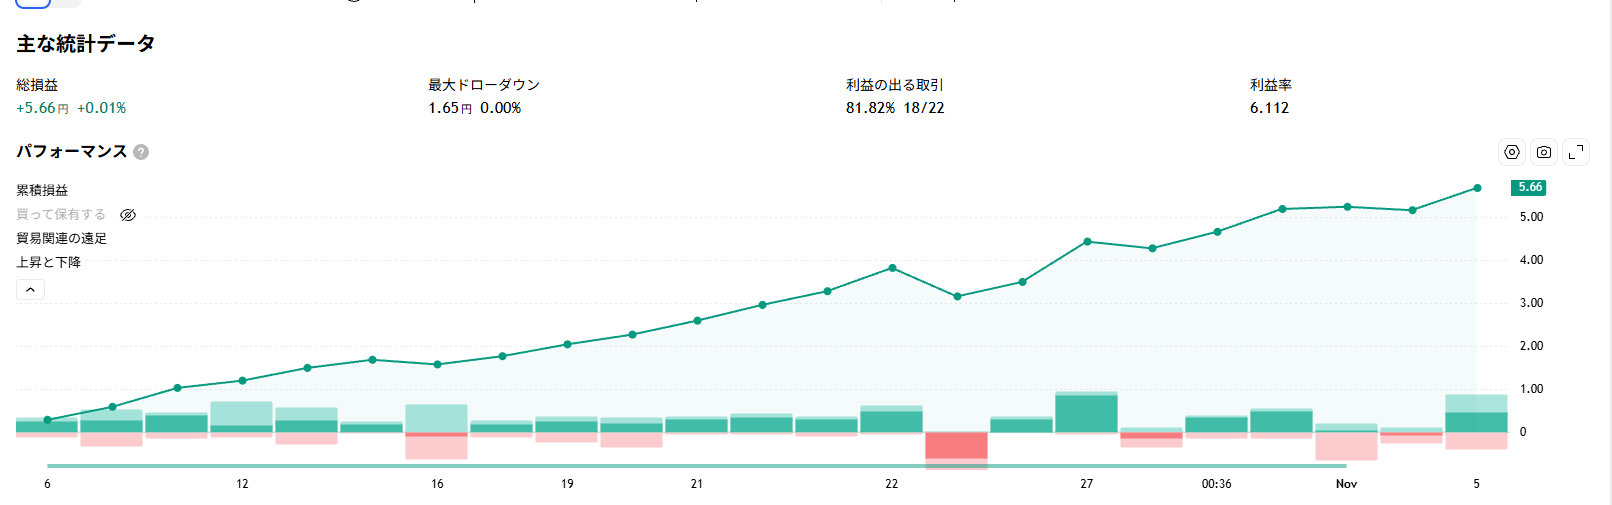
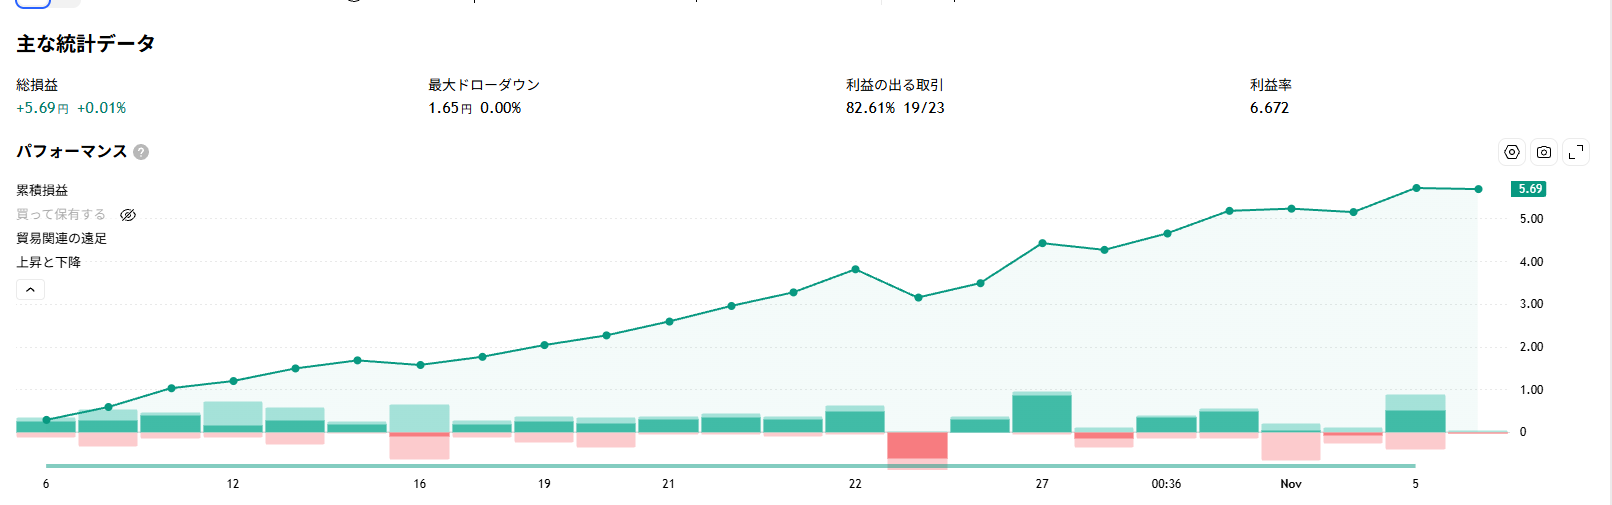
売買記録 2026-11-05（CA_RSI_Bol_1.1_JP）

diff --git a/index.html b/index.html
@@ -47,7 +47,7 @@ ul.days a{display:block;background:var(--card);border:1px solid var(--line);bord
 .eqw .cx{stroke:var(--muted);stroke-width:1;vector-effect:non-scaling-stroke;display:none}
 .eqw .dot{fill:var(--eq);stroke:var(--card);stroke-width:2;vector-effect:non-scaling-stroke;display:none}
 .eqt{position:absolute;top:4px;transform:translateX(-50%);background:var(--card);border:1px solid var(--line);border-radius:6px;padding:4px 8px;font-size:12px;line-height:1.5;white-space:nowrap;pointer-events:none;display:none;box-shadow:0 2px 8px rgba(0,0,0,.14)}
-</style></head><body><header><h1>TradingView 売買記録</h1><div class=sub>通算 ／ CA_RSI_Bol_1.1_JP — USDJPY 3分足</div></header><main><h2>通算成績</h2><p class=note>ChartArt「Bollinger + RSI, Double Strategy」v1.1 の日本語表示版。ロジックは原本と同じで、矢印を「買い／売り」表示にして評価損益を円で出すようにしたもの。アラート2本（1時間足・3分足）が稼働中。いちばん新しい取引（買い・2026-11-03 16:48 建て）は建玉中のままで、評価損益は含み益・含み損で変わります。</p><div class=kpi><div><div class=k>総損益</div><div class=v><span class="up">+6.77</span> 円</div><div class=n>建玉中込み +7.29 円</div></div><div><div class=k>利益率（PF）</div><div class=v>4.640</div><div class=n>建玉中込み 4.919</div></div><div><div class=k>勝率</div><div class=v>82.8%</div><div class=n>24 勝 / 29 取引</div></div><div><div class=k>最大ドローダウン</div><div class=v>1.92 円</div><div class=n>含み損も数えた谷</div></div></div><p class=note>記録を始めてからためた<b>全 30 取引</b>の通算です（2026-09-29 〜 2026-11-03）。TradingView がさかのぼれる範囲から外れた古い取引も台帳に残してあるので消えません。最後に記録したのは <b>2026-11-05</b>（2026-11-05 19:20 JST）。</p><h2>通算の損益カーブ</h2><p>決済が済んだ取引だけを、決済した順に積み上げたものです。線をなぞるとその取引が出ます。</p><div class=eqw id=eqw><svg viewBox="0 0 380 210" role=img aria-label="通算の損益カーブ。2026年09月29日から2026年11月03日まで、決済済み 29 取引の累積損益は +6.77 円。1件ごとの内訳は下のトレード履歴の表で読めます。"><title>通算の損益カーブ</title><line class="zl" x1="44.0" y1="184.0" x2="372.0" y2="184.0"/><text class=ax x="39.0" y="187.5" text-anchor=end>+0</text><line class="gl" x1="44.0" y1="141.0" x2="372.0" y2="141.0"/><text class=ax x="39.0" y="144.5" text-anchor=end>+2</text><line class="gl" x1="44.0" y1="98.0" x2="372.0" y2="98.0"/><text class=ax x="39.0" y="101.5" text-anchor=end>+4</text><line class="gl" x1="44.0" y1="55.0" x2="372.0" y2="55.0"/><text class=ax x="39.0" y="58.5" text-anchor=end>+6</text><line class="gl" x1="44.0" y1="12.0" x2="372.0" y2="12.0"/><text class=ax x="39.0" y="15.5" text-anchor=end>+8</text><text class=ax x="44.0" y="201.0" text-anchor=start>9/29</text><text class=ax x="202.4" y="201.0" text-anchor=middle>10/16</text><text class=ax x="372.0" y="201.0" text-anchor=end>11/3</text><polygon class=ar points="44.0,184.0 44.0,184.0 46.8,176.7 48.1,168.5 52.6,149.0 57.4,138.0 65.5,156.3 100.0,154.1 106.6,149.4 110.0,143.4 126.5,136.9 132.4,127.5 163.9,123.8 182.7,117.4 183.6,113.3 197.6,115.6 202.4,111.5 232.8,105.5 243.9,100.6 248.0,93.7 252.5,85.7 255.0,78.9 258.7,67.3 294.6,81.4 295.3,74.1 304.3,53.9 315.2,57.4 319.0,49.2 330.7,37.8 359.8,36.7 372.0,38.4 372.0,184.0"/><polyline class=ln points="44.0,184.0 46.8,176.7 48.1,168.5 52.6,149.0 57.4,138.0 65.5,156.3 100.0,154.1 106.6,149.4 110.0,143.4 126.5,136.9 132.4,127.5 163.9,123.8 182.7,117.4 183.6,113.3 197.6,115.6 202.4,111.5 232.8,105.5 243.9,100.6 248.0,93.7 252.5,85.7 255.0,78.9 258.7,67.3 294.6,81.4 295.3,74.1 304.3,53.9 315.2,57.4 319.0,49.2 330.7,37.8 359.8,36.7 372.0,38.4"/><text class=dl x="370.0" y="31.4" text-anchor=end>+6.77 円</text><line class=cx id=eqcx y1="12" y2="184" x1="0" x2="0"/><circle class=dot id=eqdot r="5" cx="0" cy="0"/></svg><div class=eqt id=eqt></div><script type="application/json" id=eqd>[{"x": 44.0, "y": 184.0, "t": "2026/09/29 記録開始<br>累積 +0.00 円"}, {"x": 46.8, "y": 176.7, "t": "2026/09/29 21:21 決済<br>売り +0.34 円<br>累積 +0.34 円"}, {"x": 48.1, "y": 168.5, "t": "2026/09/30 00:36 決済<br>買い +0.38 円<br>累積 +0.72 円"}, {"x": 52.6, "y": 149.0, "t": "2026/09/30 12:15 決済<br>売り +0.91 円<br>累積 +1.63 円"}, {"x": 57.4, "y": 138.0, "t": "2026/10/01 00:30 決済<br>買い +0.51 円<br>累積 +2.14 円"}, {"x": 65.5, "y": 156.3, "t": "2026/10/01 21:24 決済<br>売り -0.85 円<br>累積 +1.29 円"}, {"x": 100.0, "y": 154.1, "t": "2026/10/05 13:54 決済<br>買い +0.10 円<br>累積 +1.39 円"}, {"x": 106.6, "y": 149.4, "t": "2026/10/06 06:57 決済<br>売り +0.22 円<br>累積 +1.61 円"}, {"x": 110.0, "y": 143.4, "t": "2026/10/06 15:45 決済<br>買い +0.28 円<br>累積 +1.89 円"}, {"x": 126.5, "y": 136.9, "t": "2026/10/08 10:06 決済<br>売り +0.30 円<br>累積 +2.19 円"}, {"x": 132.4, "y": 127.5, "t": "2026/10/09 01:09 決済<br>買い +0.44 円<br>累積 +2.63 円"}, {"x": 163.9, "y": 123.8, "t": "2026/10/12 10:18 決済<br>売り +0.17 円<br>累積 +2.80 円"}, {"x": 182.7, "y": 117.4, "t": "2026/10/14 10:36 決済<br>買い +0.30 円<br>累積 +3.10 円"}, {"x": 183.6, "y": 113.3, "t": "2026/10/14 12:45 決済<br>売り +0.19 円<br>累積 +3.29 円"}, {"x": 197.6, "y": 115.6, "t": "2026/10/16 00:42 決済<br>買い -0.11 円<br>累積 +3.18 円"}, {"x": 202.4, "y": 111.5, "t": "2026/10/16 13:09 決済<br>売り +0.19 円<br>累積 +3.37 円"}, {"x": 232.8, "y": 105.5, "t": "2026/10/19 19:18 決済<br>買い +0.28 円<br>累積 +3.65 円"}, {"x": 243.9, "y": 100.6, "t": "2026/10/20 23:48 決済<br>売り +0.23 円<br>累積 +3.88 円"}, {"x": 248.0, "y": 93.7, "t": "2026/10/21 10:09 決済<br>買い +0.32 円<br>累積 +4.20 円"}, {"x": 252.5, "y": 85.7, "t": "2026/10/21 21:48 決済<br>売り +0.37 円<br>累積 +4.57 円"}, {"x": 255.0, "y": 78.9, "t": "2026/10/22 04:18 決済<br>買い +0.32 円<br>累積 +4.89 円"}, {"x": 258.7, "y": 67.3, "t": "2026/10/22 13:45 決済<br>売り +0.54 円<br>累積 +5.43 円"}, {"x": 294.6, "y": 81.4, "t": "2026/10/26 10:03 決済<br>買い -0.66 円<br>累積 +4.77 円"}, {"x": 295.3, "y": 74.1, "t": "2026/10/26 11:48 決済<br>売り +0.34 円<br>累積 +5.11 円"}, {"x": 304.3, "y": 53.9, "t": "2026/10/27 11:00 決済<br>買い +0.94 円<br>累積 +6.05 円"}, {"x": 315.2, "y": 57.4, "t": "2026/10/28 14:54 決済<br>売り -0.16 円<br>累積 +5.89 円"}, {"x": 319.0, "y": 49.2, "t": "2026/10/29 00:36 決済<br>買い +0.38 円<br>累積 +6.27 円"}, {"x": 330.7, "y": 37.8, "t": "2026/10/30 06:39 決済<br>売り +0.53 円<br>累積 +6.80 円"}, {"x": 359.8, "y": 36.7, "t": "2026/11/02 09:33 決済<br>買い +0.05 円<br>累積 +6.85 円"}, {"x": 372.0, "y": 38.4, "t": "2026/11/03 16:48 決済<br>売り -0.08 円<br>累積 +6.77 円"}]</script></div><h2>トレード履歴（通算）</h2><p>全 30 件（新しい順）</p><p class=cap>日時は上がエントリー・下が決済。小さい字は価格です。</p><div class=sc><table><thead><tr><th>#</th><th>方向</th><th>日時</th><th>損益<br>(円)</th><th>累積<br>(円)</th></tr></thead><tbody><tr class=op><td class=num>30</td><td><span class="tag b">買</span></td><td>11/03 16:48<br>↓ <b>建玉中</b><div class=px>157.799 → （未決済）</div></td><td class=num><span class="up">+0.52</span></td><td class=num>+7.29</td></tr><tr><td class=num>29</td><td><span class="tag s">売</span></td><td>11/02 09:33<br>↓ 11/03 16:48<div class=px>157.719 → 157.799</div></td><td class=num><span class="dn">-0.08</span></td><td class=num>+6.77</td></tr><tr><td class=num>28</td><td><span class="tag b">買</span></td><td>10/30 06:39<br>↓ 11/02 09:33<div class=px>157.668 → 157.719</div></td><td class=num><span class="up">+0.05</span></td><td class=num>+6.85</td></tr><tr><td class=num>27</td><td><span class="tag s">売</span></td><td>10/29 00:36<br>↓ 10/30 06:39<div class=px>158.199 → 157.668</div></td><td class=num><span class="up">+0.53</span></td><td class=num>+6.80</td></tr><tr><td class=num>26</td><td><span class="tag b">買</span></td><td>10/28 14:54<br>↓ 10/29 00:36<div class=px>157.816 → 158.199</div></td><td class=num><span class="up">+0.38</span></td><td class=num>+6.27</td></tr><tr><td class=num>25</td><td><span class="tag s">売</span></td><td>10/27 11:00<br>↓ 10/28 14:54<div class=px>157.659 → 157.816</div></td><td class=num><span class="dn">-0.16</span></td><td class=num>+5.89</td></tr><tr><td class=num>24</td><td><span class="tag b">買</span></td><td>10/26 11:48<br>↓ 10/27 11:00<div class=px>156.721 → 157.659</div></td><td class=num><span class="up">+0.94</span></td><td class=num>+6.05</td></tr><tr><td class=num>23</td><td><span class="tag s">売</span></td><td>10/26 10:03<br>↓ 10/26 11:48<div class=px>157.057 → 156.721</div></td><td class=num><span class="up">+0.34</span></td><td class=num>+5.11</td></tr><tr><td class=num>22</td><td><span class="tag b">買</span></td><td>10/22 13:45<br>↓ 10/26 10:03<div class=px>157.719 → 157.057</div></td><td class=num><span class="dn">-0.66</span></td><td class=num>+4.77</td></tr><tr><td class=num>21</td><td><span class="tag s">売</span></td><td>10/22 04:18<br>↓ 10/22 13:45<div class=px>158.26 → 157.719</div></td><td class=num><span class="up">+0.54</span></td><td class=num>+5.43</td></tr><tr><td class=num>20</td><td><span class="tag b">買</span></td><td>10/21 21:48<br>↓ 10/22 04:18<div class=px>157.942 → 158.26</div></td><td class=num><span class="up">+0.32</span></td><td class=num>+4.89</td></tr><tr><td class=num>19</td><td><span class="tag s">売</span></td><td>10/21 10:09<br>↓ 10/21 21:48<div class=px>158.307 → 157.942</div></td><td class=num><span class="up">+0.37</span></td><td class=num>+4.57</td></tr><tr><td class=num>18</td><td><span class="tag b">買</span></td><td>10/20 23:48<br>↓ 10/21 10:09<div class=px>157.983 → 158.307</div></td><td class=num><span class="up">+0.32</span></td><td class=num>+4.20</td></tr><tr><td class=num>17</td><td><span class="tag s">売</span></td><td>10/19 19:18<br>↓ 10/20 23:48<div class=px>158.21 → 157.983</div></td><td class=num><span class="up">+0.23</span></td><td class=num>+3.88</td></tr><tr><td class=num>16</td><td><span class="tag b">買</span></td><td>10/16 13:09<br>↓ 10/19 19:18<div class=px>157.935 → 158.21</div></td><td class=num><span class="up">+0.28</span></td><td class=num>+3.65</td></tr><tr><td class=num>15</td><td><span class="tag s">売</span></td><td>10/16 00:42<br>↓ 10/16 13:09<div class=px>158.126 → 157.935</div></td><td class=num><span class="up">+0.19</span></td><td class=num>+3.37</td></tr><tr><td class=num>14</td><td><span class="tag b">買</span></td><td>10/14 12:45<br>↓ 10/16 00:42<div class=px>158.234 → 158.126</div></td><td class=num><span class="dn">-0.11</span></td><td class=num>+3.18</td></tr><tr><td class=num>13</td><td><span class="tag s">売</span></td><td>10/14 10:36<br>↓ 10/14 12:45<div class=px>158.423 → 158.234</div></td><td class=num><span class="up">+0.19</span></td><td class=num>+3.29</td></tr><tr><td class=num>12</td><td><span class="tag b">買</span></td><td>10/12 10:18<br>↓ 10/14 10:36<div class=px>158.128 → 158.423</div></td><td class=num><span class="up">+0.30</span></td><td class=num>+3.10</td></tr><tr><td class=num>11</td><td><span class="tag s">売</span></td><td>10/09 01:09<br>↓ 10/12 10:18<div class=px>158.297 → 158.128</div></td><td class=num><span class="up">+0.17</span></td><td class=num>+2.80</td></tr><tr><td class=num>10</td><td><span class="tag b">買</span></td><td>10/08 10:06<br>↓ 10/09 01:09<div class=px>157.858 → 158.297</div></td><td class=num><span class="up">+0.44</span></td><td class=num>+2.63</td></tr><tr><td class=num>9</td><td><span class="tag s">売</span></td><td>10/06 15:45<br>↓ 10/08 10:06<div class=px>158.16 → 157.858</div></td><td class=num><span class="up">+0.30</span></td><td class=num>+2.19</td></tr><tr><td class=num>8</td><td><span class="tag b">買</span></td><td>10/06 06:57<br>↓ 10/06 15:45<div class=px>157.879 → 158.16</div></td><td class=num><span class="up">+0.28</span></td><td class=num>+1.89</td></tr><tr><td class=num>7</td><td><span class="tag s">売</span></td><td>10/05 13:54<br>↓ 10/06 06:57<div class=px>158.103 → 157.879</div></td><td class=num><span class="up">+0.22</span></td><td class=num>+1.61</td></tr><tr><td class=num>6</td><td><span class="tag b">買</span></td><td>10/01 21:24<br>↓ 10/05 13:54<div class=px>158.003 → 158.103</div></td><td class=num><span class="up">+0.10</span></td><td class=num>+1.39</td></tr><tr><td class=num>5</td><td><span class="tag s">売</span></td><td>10/01 00:30<br>↓ 10/01 21:24<div class=px>157.151 → 158.003</div></td><td class=num><span class="dn">-0.85</span></td><td class=num>+1.29</td></tr><tr><td class=num>4</td><td><span class="tag b">買</span></td><td>09/30 12:15<br>↓ 10/01 00:30<div class=px>156.644 → 157.151</div></td><td class=num><span class="up">+0.51</span></td><td class=num>+2.14</td></tr><tr><td class=num>3</td><td><span class="tag s">売</span></td><td>09/30 00:36<br>↓ 09/30 12:15<div class=px>157.553 → 156.644</div></td><td class=num><span class="up">+0.91</span></td><td class=num>+1.63</td></tr><tr><td class=num>2</td><td><span class="tag b">買</span></td><td>09/29 21:21<br>↓ 09/30 00:36<div class=px>157.169 → 157.553</div></td><td class=num><span class="up">+0.38</span></td><td class=num>+0.72</td></tr><tr><td class=num>1</td><td><span class="tag s">売</span></td><td>09/29 14:09<br>↓ 09/29 21:21<div class=px>157.509 → 157.169</div></td><td class=num><span class="up">+0.34</span></td><td class=num>+0.34</td></tr></tbody></table></div><h2>この日の TradingView 画面</h2><p class=note><b>取得日時 2026-11-05 19:20 JST</b><br>TradingView がこの日さかのぼれた範囲は <b>2026-10-06 〜 2026-11-03</b>（23 取引）。その範囲だけで集計すると 総損益 +5.15 円 ／ 利益率 6.109。<br>上の通算と数字が違うのは、通算には窓から外れた古い取引も入っているからです。</p><h3>戦略レポート（主な統計データと累積損益カーブ）</h3><a href='2026-11-05/report.png' target=_blank rel=noopener><img src='2026-11-05/report.png' alt='戦略レポート（主な統計データと累積損益カーブ）'></a><p class=cap>画像をタップすると原寸で開きます</p><h2>日付ごとの記録</h2><ul class=days><li><a href='2026-11-05/'>2026-11-05　← いちばん新しい記録</a></li><li><a href='2026-11-04/'>2026-11-04</a></li><li><a href='2026-11-03/'>2026-11-03</a></li><li><a href='2026-11-02/'>2026-11-02</a></li><li><a href='2026-11-01/'>2026-11-01</a></li><li><a href='2026-10-31/'>2026-10-31</a></li></ul><details open><summary>⚠ 数字を読むときの注意</summary><ul><li><b>通算は「記録したときに TradingView に見えていた取引」を足したもの</b>です。記録を始める前の取引や、記録の間隔が開いて窓から外れてしまった取引は入りません</li><li>通算の総損益は<b>1取引ごとの損益を足し上げた値</b>です。TradingView の「累積損益」の列は行ごとに丸めてあるので、そちらとわずかに違います（いちばん新しい記録の範囲で 足し上げ +5.16 円 / TV の列 +5.15 円）</li><li><b>TradingView の画面に出る「利益率」は建玉中の評価損益を含みません</b>。いま建玉中が +0.52 円あり、含めると利益率は 4.640 → 4.919 になります</li><li>表の損益はスプレッドや実際の約定ズレを含みません。実口座の成績とは一致しません</li><li>最大ドローダウンは、決済ごとの累積損益に加えて保有中の含み損も谷として数えています。TradingView の表示と計算の土俵が違うことがあります</li><li>この戦略は5分足6年の独立検証では利益率 0.924（ランダムに入った場合より悪い）でした。ここに出ている短期の高い利益率は、期間の取り方で出ることがあります</li><li>3分足は長期の裏取りができません（手持ちの検証データは最短5分足）</li></ul></details><p class=foot>TradingView の戦略テスターから自動で作っています。取引一覧の原本（CSV）と通算台帳は非公開の保管用リポジトリにあります。</p></main><script>
+</style></head><body><header><h1>TradingView 売買記録</h1><div class=sub>通算 ／ CA_RSI_Bol_1.1_JP — USDJPY 3分足</div></header><main><h2>通算成績</h2><p class=note>ChartArt「Bollinger + RSI, Double Strategy」v1.1 の日本語表示版。ロジックは原本と同じで、矢印を「買い／売り」表示にして評価損益を円で出すようにしたもの。アラート2本（1時間足・3分足）が稼働中。前回（19:20）建玉中だった買いの取引は 2026-11-05 19:51 に +0.56 円で決済され、同時刻に新しい売りの取引を建てました。いちばん新しい取引（売り・2026-11-05 19:51 建て）は建玉中のままで、評価損益は含み益・含み損で変わります。</p><div class=kpi><div><div class=k>総損益</div><div class=v><span class="up">+7.33</span> 円</div><div class=n>建玉中込み +7.30 円</div></div><div><div class=k>利益率（PF）</div><div class=v>4.941</div><div class=n>建玉中込み 4.862</div></div><div><div class=k>勝率</div><div class=v>83.3%</div><div class=n>25 勝 / 30 取引</div></div><div><div class=k>最大ドローダウン</div><div class=v>1.92 円</div><div class=n>含み損も数えた谷</div></div></div><p class=note>記録を始めてからためた<b>全 31 取引</b>の通算です（2026-09-29 〜 2026-11-05）。TradingView がさかのぼれる範囲から外れた古い取引も台帳に残してあるので消えません。最後に記録したのは <b>2026-11-05</b>（2026-11-05 20:46 JST）。</p><h2>通算の損益カーブ</h2><p>決済が済んだ取引だけを、決済した順に積み上げたものです。線をなぞるとその取引が出ます。</p><div class=eqw id=eqw><svg viewBox="0 0 380 210" role=img aria-label="通算の損益カーブ。2026年09月29日から2026年11月05日まで、決済済み 30 取引の累積損益は +7.33 円。1件ごとの内訳は下のトレード履歴の表で読めます。"><title>通算の損益カーブ</title><line class="zl" x1="44.0" y1="184.0" x2="372.0" y2="184.0"/><text class=ax x="39.0" y="187.5" text-anchor=end>+0</text><line class="gl" x1="44.0" y1="141.0" x2="372.0" y2="141.0"/><text class=ax x="39.0" y="144.5" text-anchor=end>+2</text><line class="gl" x1="44.0" y1="98.0" x2="372.0" y2="98.0"/><text class=ax x="39.0" y="101.5" text-anchor=end>+4</text><line class="gl" x1="44.0" y1="55.0" x2="372.0" y2="55.0"/><text class=ax x="39.0" y="58.5" text-anchor=end>+6</text><line class="gl" x1="44.0" y1="12.0" x2="372.0" y2="12.0"/><text class=ax x="39.0" y="15.5" text-anchor=end>+8</text><text class=ax x="44.0" y="201.0" text-anchor=start>9/29</text><text class=ax x="193.4" y="201.0" text-anchor=middle>10/16</text><text class=ax x="372.0" y="201.0" text-anchor=end>11/5</text><polygon class=ar points="44.0,184.0 44.0,184.0 46.6,176.7 47.8,168.5 52.1,149.0 56.6,138.0 64.3,156.3 96.8,154.1 103.0,149.4 106.2,143.4 121.8,136.9 127.3,127.5 157.1,123.8 174.8,117.4 175.6,113.3 188.8,115.6 193.4,111.5 222.1,105.5 232.5,100.6 236.3,93.7 240.6,85.7 243.0,78.9 246.4,67.3 280.3,81.4 281.0,74.1 289.5,53.9 299.7,57.4 303.3,49.2 314.3,37.8 341.8,36.7 353.3,38.4 372.0,26.4 372.0,184.0"/><polyline class=ln points="44.0,184.0 46.6,176.7 47.8,168.5 52.1,149.0 56.6,138.0 64.3,156.3 96.8,154.1 103.0,149.4 106.2,143.4 121.8,136.9 127.3,127.5 157.1,123.8 174.8,117.4 175.6,113.3 188.8,115.6 193.4,111.5 222.1,105.5 232.5,100.6 236.3,93.7 240.6,85.7 243.0,78.9 246.4,67.3 280.3,81.4 281.0,74.1 289.5,53.9 299.7,57.4 303.3,49.2 314.3,37.8 341.8,36.7 353.3,38.4 372.0,26.4"/><text class=dl x="370.0" y="19.4" text-anchor=end>+7.33 円</text><line class=cx id=eqcx y1="12" y2="184" x1="0" x2="0"/><circle class=dot id=eqdot r="5" cx="0" cy="0"/></svg><div class=eqt id=eqt></div><script type="application/json" id=eqd>[{"x": 44.0, "y": 184.0, "t": "2026/09/29 記録開始<br>累積 +0.00 円"}, {"x": 46.6, "y": 176.7, "t": "2026/09/29 21:21 決済<br>売り +0.34 円<br>累積 +0.34 円"}, {"x": 47.8, "y": 168.5, "t": "2026/09/30 00:36 決済<br>買い +0.38 円<br>累積 +0.72 円"}, {"x": 52.1, "y": 149.0, "t": "2026/09/30 12:15 決済<br>売り +0.91 円<br>累積 +1.63 円"}, {"x": 56.6, "y": 138.0, "t": "2026/10/01 00:30 決済<br>買い +0.51 円<br>累積 +2.14 円"}, {"x": 64.3, "y": 156.3, "t": "2026/10/01 21:24 決済<br>売り -0.85 円<br>累積 +1.29 円"}, {"x": 96.8, "y": 154.1, "t": "2026/10/05 13:54 決済<br>買い +0.10 円<br>累積 +1.39 円"}, {"x": 103.0, "y": 149.4, "t": "2026/10/06 06:57 決済<br>売り +0.22 円<br>累積 +1.61 円"}, {"x": 106.2, "y": 143.4, "t": "2026/10/06 15:45 決済<br>買い +0.28 円<br>累積 +1.89 円"}, {"x": 121.8, "y": 136.9, "t": "2026/10/08 10:06 決済<br>売り +0.30 円<br>累積 +2.19 円"}, {"x": 127.3, "y": 127.5, "t": "2026/10/09 01:09 決済<br>買い +0.44 円<br>累積 +2.63 円"}, {"x": 157.1, "y": 123.8, "t": "2026/10/12 10:18 決済<br>売り +0.17 円<br>累積 +2.80 円"}, {"x": 174.8, "y": 117.4, "t": "2026/10/14 10:36 決済<br>買い +0.30 円<br>累積 +3.10 円"}, {"x": 175.6, "y": 113.3, "t": "2026/10/14 12:45 決済<br>売り +0.19 円<br>累積 +3.29 円"}, {"x": 188.8, "y": 115.6, "t": "2026/10/16 00:42 決済<br>買い -0.11 円<br>累積 +3.18 円"}, {"x": 193.4, "y": 111.5, "t": "2026/10/16 13:09 決済<br>売り +0.19 円<br>累積 +3.37 円"}, {"x": 222.1, "y": 105.5, "t": "2026/10/19 19:18 決済<br>買い +0.28 円<br>累積 +3.65 円"}, {"x": 232.5, "y": 100.6, "t": "2026/10/20 23:48 決済<br>売り +0.23 円<br>累積 +3.88 円"}, {"x": 236.3, "y": 93.7, "t": "2026/10/21 10:09 決済<br>買い +0.32 円<br>累積 +4.20 円"}, {"x": 240.6, "y": 85.7, "t": "2026/10/21 21:48 決済<br>売り +0.37 円<br>累積 +4.57 円"}, {"x": 243.0, "y": 78.9, "t": "2026/10/22 04:18 決済<br>買い +0.32 円<br>累積 +4.89 円"}, {"x": 246.4, "y": 67.3, "t": "2026/10/22 13:45 決済<br>売り +0.54 円<br>累積 +5.43 円"}, {"x": 280.3, "y": 81.4, "t": "2026/10/26 10:03 決済<br>買い -0.66 円<br>累積 +4.77 円"}, {"x": 281.0, "y": 74.1, "t": "2026/10/26 11:48 決済<br>売り +0.34 円<br>累積 +5.11 円"}, {"x": 289.5, "y": 53.9, "t": "2026/10/27 11:00 決済<br>買い +0.94 円<br>累積 +6.05 円"}, {"x": 299.7, "y": 57.4, "t": "2026/10/28 14:54 決済<br>売り -0.16 円<br>累積 +5.89 円"}, {"x": 303.3, "y": 49.2, "t": "2026/10/29 00:36 決済<br>買い +0.38 円<br>累積 +6.27 円"}, {"x": 314.3, "y": 37.8, "t": "2026/10/30 06:39 決済<br>売り +0.53 円<br>累積 +6.80 円"}, {"x": 341.8, "y": 36.7, "t": "2026/11/02 09:33 決済<br>買い +0.05 円<br>累積 +6.85 円"}, {"x": 353.3, "y": 38.4, "t": "2026/11/03 16:48 決済<br>売り -0.08 円<br>累積 +6.77 円"}, {"x": 372.0, "y": 26.4, "t": "2026/11/05 19:51 決済<br>買い +0.56 円<br>累積 +7.33 円"}]</script></div><h2>トレード履歴（通算）</h2><p>全 31 件（新しい順）</p><p class=cap>日時は上がエントリー・下が決済。小さい字は価格です。</p><div class=sc><table><thead><tr><th>#</th><th>方向</th><th>日時</th><th>損益<br>(円)</th><th>累積<br>(円)</th></tr></thead><tbody><tr class=op><td class=num>31</td><td><span class="tag s">売</span></td><td>11/05 19:51<br>↓ <b>建玉中</b><div class=px>158.363 → （未決済）</div></td><td class=num><span class="dn">-0.03</span></td><td class=num>+7.30</td></tr><tr><td class=num>30</td><td><span class="tag b">買</span></td><td>11/03 16:48<br>↓ 11/05 19:51<div class=px>157.799 → 158.363</div></td><td class=num><span class="up">+0.56</span></td><td class=num>+7.33</td></tr><tr><td class=num>29</td><td><span class="tag s">売</span></td><td>11/02 09:33<br>↓ 11/03 16:48<div class=px>157.719 → 157.799</div></td><td class=num><span class="dn">-0.08</span></td><td class=num>+6.77</td></tr><tr><td class=num>28</td><td><span class="tag b">買</span></td><td>10/30 06:39<br>↓ 11/02 09:33<div class=px>157.668 → 157.719</div></td><td class=num><span class="up">+0.05</span></td><td class=num>+6.85</td></tr><tr><td class=num>27</td><td><span class="tag s">売</span></td><td>10/29 00:36<br>↓ 10/30 06:39<div class=px>158.199 → 157.668</div></td><td class=num><span class="up">+0.53</span></td><td class=num>+6.80</td></tr><tr><td class=num>26</td><td><span class="tag b">買</span></td><td>10/28 14:54<br>↓ 10/29 00:36<div class=px>157.816 → 158.199</div></td><td class=num><span class="up">+0.38</span></td><td class=num>+6.27</td></tr><tr><td class=num>25</td><td><span class="tag s">売</span></td><td>10/27 11:00<br>↓ 10/28 14:54<div class=px>157.659 → 157.816</div></td><td class=num><span class="dn">-0.16</span></td><td class=num>+5.89</td></tr><tr><td class=num>24</td><td><span class="tag b">買</span></td><td>10/26 11:48<br>↓ 10/27 11:00<div class=px>156.721 → 157.659</div></td><td class=num><span class="up">+0.94</span></td><td class=num>+6.05</td></tr><tr><td class=num>23</td><td><span class="tag s">売</span></td><td>10/26 10:03<br>↓ 10/26 11:48<div class=px>157.057 → 156.721</div></td><td class=num><span class="up">+0.34</span></td><td class=num>+5.11</td></tr><tr><td class=num>22</td><td><span class="tag b">買</span></td><td>10/22 13:45<br>↓ 10/26 10:03<div class=px>157.719 → 157.057</div></td><td class=num><span class="dn">-0.66</span></td><td class=num>+4.77</td></tr><tr><td class=num>21</td><td><span class="tag s">売</span></td><td>10/22 04:18<br>↓ 10/22 13:45<div class=px>158.26 → 157.719</div></td><td class=num><span class="up">+0.54</span></td><td class=num>+5.43</td></tr><tr><td class=num>20</td><td><span class="tag b">買</span></td><td>10/21 21:48<br>↓ 10/22 04:18<div class=px>157.942 → 158.26</div></td><td class=num><span class="up">+0.32</span></td><td class=num>+4.89</td></tr><tr><td class=num>19</td><td><span class="tag s">売</span></td><td>10/21 10:09<br>↓ 10/21 21:48<div class=px>158.307 → 157.942</div></td><td class=num><span class="up">+0.37</span></td><td class=num>+4.57</td></tr><tr><td class=num>18</td><td><span class="tag b">買</span></td><td>10/20 23:48<br>↓ 10/21 10:09<div class=px>157.983 → 158.307</div></td><td class=num><span class="up">+0.32</span></td><td class=num>+4.20</td></tr><tr><td class=num>17</td><td><span class="tag s">売</span></td><td>10/19 19:18<br>↓ 10/20 23:48<div class=px>158.21 → 157.983</div></td><td class=num><span class="up">+0.23</span></td><td class=num>+3.88</td></tr><tr><td class=num>16</td><td><span class="tag b">買</span></td><td>10/16 13:09<br>↓ 10/19 19:18<div class=px>157.935 → 158.21</div></td><td class=num><span class="up">+0.28</span></td><td class=num>+3.65</td></tr><tr><td class=num>15</td><td><span class="tag s">売</span></td><td>10/16 00:42<br>↓ 10/16 13:09<div class=px>158.126 → 157.935</div></td><td class=num><span class="up">+0.19</span></td><td class=num>+3.37</td></tr><tr><td class=num>14</td><td><span class="tag b">買</span></td><td>10/14 12:45<br>↓ 10/16 00:42<div class=px>158.234 → 158.126</div></td><td class=num><span class="dn">-0.11</span></td><td class=num>+3.18</td></tr><tr><td class=num>13</td><td><span class="tag s">売</span></td><td>10/14 10:36<br>↓ 10/14 12:45<div class=px>158.423 → 158.234</div></td><td class=num><span class="up">+0.19</span></td><td class=num>+3.29</td></tr><tr><td class=num>12</td><td><span class="tag b">買</span></td><td>10/12 10:18<br>↓ 10/14 10:36<div class=px>158.128 → 158.423</div></td><td class=num><span class="up">+0.30</span></td><td class=num>+3.10</td></tr><tr><td class=num>11</td><td><span class="tag s">売</span></td><td>10/09 01:09<br>↓ 10/12 10:18<div class=px>158.297 → 158.128</div></td><td class=num><span class="up">+0.17</span></td><td class=num>+2.80</td></tr><tr><td class=num>10</td><td><span class="tag b">買</span></td><td>10/08 10:06<br>↓ 10/09 01:09<div class=px>157.858 → 158.297</div></td><td class=num><span class="up">+0.44</span></td><td class=num>+2.63</td></tr><tr><td class=num>9</td><td><span class="tag s">売</span></td><td>10/06 15:45<br>↓ 10/08 10:06<div class=px>158.16 → 157.858</div></td><td class=num><span class="up">+0.30</span></td><td class=num>+2.19</td></tr><tr><td class=num>8</td><td><span class="tag b">買</span></td><td>10/06 06:57<br>↓ 10/06 15:45<div class=px>157.879 → 158.16</div></td><td class=num><span class="up">+0.28</span></td><td class=num>+1.89</td></tr><tr><td class=num>7</td><td><span class="tag s">売</span></td><td>10/05 13:54<br>↓ 10/06 06:57<div class=px>158.103 → 157.879</div></td><td class=num><span class="up">+0.22</span></td><td class=num>+1.61</td></tr><tr><td class=num>6</td><td><span class="tag b">買</span></td><td>10/01 21:24<br>↓ 10/05 13:54<div class=px>158.003 → 158.103</div></td><td class=num><span class="up">+0.10</span></td><td class=num>+1.39</td></tr><tr><td class=num>5</td><td><span class="tag s">売</span></td><td>10/01 00:30<br>↓ 10/01 21:24<div class=px>157.151 → 158.003</div></td><td class=num><span class="dn">-0.85</span></td><td class=num>+1.29</td></tr><tr><td class=num>4</td><td><span class="tag b">買</span></td><td>09/30 12:15<br>↓ 10/01 00:30<div class=px>156.644 → 157.151</div></td><td class=num><span class="up">+0.51</span></td><td class=num>+2.14</td></tr><tr><td class=num>3</td><td><span class="tag s">売</span></td><td>09/30 00:36<br>↓ 09/30 12:15<div class=px>157.553 → 156.644</div></td><td class=num><span class="up">+0.91</span></td><td class=num>+1.63</td></tr><tr><td class=num>2</td><td><span class="tag b">買</span></td><td>09/29 21:21<br>↓ 09/30 00:36<div class=px>157.169 → 157.553</div></td><td class=num><span class="up">+0.38</span></td><td class=num>+0.72</td></tr><tr><td class=num>1</td><td><span class="tag s">売</span></td><td>09/29 14:09<br>↓ 09/29 21:21<div class=px>157.509 → 157.169</div></td><td class=num><span class="up">+0.34</span></td><td class=num>+0.34</td></tr></tbody></table></div><h2>この日の TradingView 画面</h2><p class=note><b>取得日時 2026-11-05 20:46 JST</b><br>TradingView がこの日さかのぼれた範囲は <b>2026-10-06 〜 2026-11-05</b>（24 取引）。その範囲だけで集計すると 総損益 +5.71 円 ／ 利益率 6.663。<br>上の通算と数字が違うのは、通算には窓から外れた古い取引も入っているからです。</p><h3>戦略レポート（主な統計データと累積損益カーブ）</h3><a href='2026-11-05/report.png' target=_blank rel=noopener><img src='2026-11-05/report.png' alt='戦略レポート（主な統計データと累積損益カーブ）'></a><p class=cap>画像をタップすると原寸で開きます</p><h2>日付ごとの記録</h2><ul class=days><li><a href='2026-11-05/'>2026-11-05　← いちばん新しい記録</a></li><li><a href='2026-11-04/'>2026-11-04</a></li><li><a href='2026-11-03/'>2026-11-03</a></li><li><a href='2026-11-02/'>2026-11-02</a></li><li><a href='2026-11-01/'>2026-11-01</a></li><li><a href='2026-10-31/'>2026-10-31</a></li></ul><details open><summary>⚠ 数字を読むときの注意</summary><ul><li><b>通算は「記録したときに TradingView に見えていた取引」を足したもの</b>です。記録を始める前の取引や、記録の間隔が開いて窓から外れてしまった取引は入りません</li><li>通算の総損益は<b>1取引ごとの損益を足し上げた値</b>です。TradingView の「累積損益」の列は行ごとに丸めてあるので、そちらとわずかに違います（いちばん新しい記録の範囲で 足し上げ +5.72 円 / TV の列 +5.71 円）</li><li><b>TradingView の画面に出る「利益率」は建玉中の評価損益を含みません</b>。いま建玉中が -0.03 円あり、含めると利益率は 4.941 → 4.862 になります</li><li>表の損益はスプレッドや実際の約定ズレを含みません。実口座の成績とは一致しません</li><li>最大ドローダウンは、決済ごとの累積損益に加えて保有中の含み損も谷として数えています。TradingView の表示と計算の土俵が違うことがあります</li><li>この戦略は5分足6年の独立検証では利益率 0.924（ランダムに入った場合より悪い）でした。ここに出ている短期の高い利益率は、期間の取り方で出ることがあります</li><li>3分足は長期の裏取りができません（手持ちの検証データは最短5分足）</li></ul></details><p class=foot>TradingView の戦略テスターから自動で作っています。取引一覧の原本（CSV）と通算台帳は非公開の保管用リポジトリにあります。</p></main><script>
 (function(){
  var w=document.getElementById('eqw'); if(!w) return;
  var pts=JSON.parse(document.getElementById('eqd').textContent);

diff --git a/2026-11-05/index.html b/2026-11-05/index.html
@@ -47,4 +47,4 @@ ul.days a{display:block;background:var(--card);border:1px solid var(--line);bord
 .eqw .cx{stroke:var(--muted);stroke-width:1;vector-effect:non-scaling-stroke;display:none}
 .eqw .dot{fill:var(--eq);stroke:var(--card);stroke-width:2;vector-effect:non-scaling-stroke;display:none}
 .eqt{position:absolute;top:4px;transform:translateX(-50%);background:var(--card);border:1px solid var(--line);border-radius:6px;padding:4px 8px;font-size:12px;line-height:1.5;white-space:nowrap;pointer-events:none;display:none;box-shadow:0 2px 8px rgba(0,0,0,.14)}
-</style></head><body><header><h1>売買記録 2026-11-05</h1><div class=sub>CA_RSI_Bol_1.1_JP — USDJPY 3分足</div><p style='margin:6px 0 0'><a href='../'>← 通算・過去の一覧</a></p></header><main><div class=kpi><div><div class=k>総損益</div><div class=v><span class="up">+5.15</span> 円</div><div class=n>建玉中込み +5.66 円</div></div><div><div class=k>利益率（PF）</div><div class=v>6.109</div><div class=n>建玉中込み 6.624</div></div><div><div class=k>勝率</div><div class=v>81.8%</div><div class=n>18 勝 / 22 取引</div></div><div><div class=k>最大ドローダウン</div><div class=v>1.65 円</div><div class=n>含み損も数えた谷</div></div></div><p class=note><b>取得日時 2026-11-05 19:20 JST</b>（この日さかのぼれた範囲 2026-10-06 〜 2026-11-03）<br>このページは<b>その日の TradingView 画面そのまま</b>です。古い取引も含めた通算は<a href="../">トップページ</a>にあります。</p><p class=note>ChartArt「Bollinger + RSI, Double Strategy」v1.1 の日本語表示版。ロジックは原本と同じで、矢印を「買い／売り」表示にして評価損益を円で出すようにしたもの。アラート2本（1時間足・3分足）が稼働中。いちばん新しい取引（買い・2026-11-03 16:48 建て）は建玉中のままで、評価損益は含み益・含み損で変わります。</p><h2>戦略レポート（主な統計データと累積損益カーブ）</h2><a href='report.png' target=_blank rel=noopener><img src='report.png' alt='戦略レポート（主な統計データと累積損益カーブ）'></a><p class=cap>画像をタップすると原寸で開きます</p><h2>この日の取引一覧</h2><p>23 件（新しい順）</p><p class=cap>日時は上がエントリー・下が決済。小さい字は価格です。</p><div class=sc><table><thead><tr><th>#</th><th>方向</th><th>日時</th><th>損益<br>(円)</th><th>累積<br>(円)</th></tr></thead><tbody><tr class=op><td class=num>23</td><td><span class="tag b">買</span></td><td>11/03 16:48<br>↓ <b>建玉中</b><div class=px>157.799 → （未決済）</div></td><td class=num><span class="up">+0.52</span></td><td class=num>+5.66</td></tr><tr><td class=num>22</td><td><span class="tag s">売</span></td><td>11/02 09:33<br>↓ 11/03 16:48<div class=px>157.719 → 157.799</div></td><td class=num><span class="dn">-0.08</span></td><td class=num>+5.15</td></tr><tr><td class=num>21</td><td><span class="tag b">買</span></td><td>10/30 06:39<br>↓ 11/02 09:33<div class=px>157.668 → 157.719</div></td><td class=num><span class="up">+0.05</span></td><td class=num>+5.23</td></tr><tr><td class=num>20</td><td><span class="tag s">売</span></td><td>10/29 00:36<br>↓ 10/30 06:39<div class=px>158.199 → 157.668</div></td><td class=num><span class="up">+0.53</span></td><td class=num>+5.18</td></tr><tr><td class=num>19</td><td><span class="tag b">買</span></td><td>10/28 14:54<br>↓ 10/29 00:36<div class=px>157.816 → 158.199</div></td><td class=num><span class="up">+0.38</span></td><td class=num>+4.65</td></tr><tr><td class=num>18</td><td><span class="tag s">売</span></td><td>10/27 11:00<br>↓ 10/28 14:54<div class=px>157.659 → 157.816</div></td><td class=num><span class="dn">-0.16</span></td><td class=num>+4.26</td></tr><tr><td class=num>17</td><td><span class="tag b">買</span></td><td>10/26 11:48<br>↓ 10/27 11:00<div class=px>156.721 → 157.659</div></td><td class=num><span class="up">+0.94</span></td><td class=num>+4.42</td></tr><tr><td class=num>16</td><td><span class="tag s">売</span></td><td>10/26 10:03<br>↓ 10/26 11:48<div class=px>157.057 → 156.721</div></td><td class=num><span class="up">+0.34</span></td><td class=num>+3.48</td></tr><tr><td class=num>15</td><td><span class="tag b">買</span></td><td>10/22 13:45<br>↓ 10/26 10:03<div class=px>157.719 → 157.057</div></td><td class=num><span class="dn">-0.66</span></td><td class=num>+3.15</td></tr><tr><td class=num>14</td><td><span class="tag s">売</span></td><td>10/22 04:18<br>↓ 10/22 13:45<div class=px>158.26 → 157.719</div></td><td class=num><span class="up">+0.54</span></td><td class=num>+3.81</td></tr><tr><td class=num>13</td><td><span class="tag b">買</span></td><td>10/21 21:48<br>↓ 10/22 04:18<div class=px>157.942 → 158.26</div></td><td class=num><span class="up">+0.32</span></td><td class=num>+3.27</td></tr><tr><td class=num>12</td><td><span class="tag s">売</span></td><td>10/21 10:09<br>↓ 10/21 21:48<div class=px>158.307 → 157.942</div></td><td class=num><span class="up">+0.37</span></td><td class=num>+2.95</td></tr><tr><td class=num>11</td><td><span class="tag b">買</span></td><td>10/20 23:48<br>↓ 10/21 10:09<div class=px>157.983 → 158.307</div></td><td class=num><span class="up">+0.32</span></td><td class=num>+2.58</td></tr><tr><td class=num>10</td><td><span class="tag s">売</span></td><td>10/19 19:18<br>↓ 10/20 23:48<div class=px>158.21 → 157.983</div></td><td class=num><span class="up">+0.23</span></td><td class=num>+2.26</td></tr><tr><td class=num>9</td><td><span class="tag b">買</span></td><td>10/16 13:09<br>↓ 10/19 19:18<div class=px>157.935 → 158.21</div></td><td class=num><span class="up">+0.28</span></td><td class=num>+2.03</td></tr><tr><td class=num>8</td><td><span class="tag s">売</span></td><td>10/16 00:42<br>↓ 10/16 13:09<div class=px>158.126 → 157.935</div></td><td class=num><span class="up">+0.19</span></td><td class=num>+1.76</td></tr><tr><td class=num>7</td><td><span class="tag b">買</span></td><td>10/14 12:45<br>↓ 10/16 00:42<div class=px>158.234 → 158.126</div></td><td class=num><span class="dn">-0.11</span></td><td class=num>+1.57</td></tr><tr><td class=num>6</td><td><span class="tag s">売</span></td><td>10/14 10:36<br>↓ 10/14 12:45<div class=px>158.423 → 158.234</div></td><td class=num><span class="up">+0.19</span></td><td class=num>+1.68</td></tr><tr><td class=num>5</td><td><span class="tag b">買</span></td><td>10/12 10:18<br>↓ 10/14 10:36<div class=px>158.128 → 158.423</div></td><td class=num><span class="up">+0.30</span></td><td class=num>+1.49</td></tr><tr><td class=num>4</td><td><span class="tag s">売</span></td><td>10/09 01:09<br>↓ 10/12 10:18<div class=px>158.297 → 158.128</div></td><td class=num><span class="up">+0.17</span></td><td class=num>+1.19</td></tr><tr><td class=num>3</td><td><span class="tag b">買</span></td><td>10/08 10:06<br>↓ 10/09 01:09<div class=px>157.858 → 158.297</div></td><td class=num><span class="up">+0.44</span></td><td class=num>+1.02</td></tr><tr><td class=num>2</td><td><span class="tag s">売</span></td><td>10/06 15:45<br>↓ 10/08 10:06<div class=px>158.16 → 157.858</div></td><td class=num><span class="up">+0.30</span></td><td class=num>+0.58</td></tr><tr><td class=num>1</td><td><span class="tag b">買</span></td><td>10/06 06:57<br>↓ 10/06 15:45<div class=px>157.879 → 158.16</div></td><td class=num><span class="up">+0.28</span></td><td class=num>+0.28</td></tr></tbody></table></div><details open><summary>⚠ 数字を読むときの注意</summary><ul><li><b>取得日時は 2026-11-05 19:20 JST</b>。TradingView の Essential プランはさかのぼれる期間が日ごとにずれるため、<b>後日まったく同じ操作をしても集計期間と数字が変わります</b></li><li><b>TradingView の画面に出る「利益率」は建玉中の評価損益を含みません</b>。いま建玉中が +0.52 円あり、含めると利益率は 6.109 → 6.624 になります</li><li>表の損益はスプレッドや実際の約定ズレを含みません。実口座の成績とは一致しません</li><li>最大ドローダウンは、決済ごとの累積損益に加えて保有中の含み損も谷として数えています。TradingView の表示と計算の土俵が違うことがあります</li><li>この戦略は5分足6年の独立検証では利益率 0.924（ランダムに入った場合より悪い）でした。ここに出ている短期の高い利益率は、期間の取り方で出ることがあります</li><li>3分足は長期の裏取りができません（手持ちの検証データは最短5分足）</li></ul></details></main></body></html>
+</style></head><body><header><h1>売買記録 2026-11-05</h1><div class=sub>CA_RSI_Bol_1.1_JP — USDJPY 3分足</div><p style='margin:6px 0 0'><a href='../'>← 通算・過去の一覧</a></p></header><main><div class=kpi><div><div class=k>総損益</div><div class=v><span class="up">+5.71</span> 円</div><div class=n>建玉中込み +5.68 円</div></div><div><div class=k>利益率（PF）</div><div class=v>6.663</div><div class=n>建玉中込み 6.471</div></div><div><div class=k>勝率</div><div class=v>82.6%</div><div class=n>19 勝 / 23 取引</div></div><div><div class=k>最大ドローダウン</div><div class=v>1.65 円</div><div class=n>含み損も数えた谷</div></div></div><p class=note><b>取得日時 2026-11-05 20:46 JST</b>（この日さかのぼれた範囲 2026-10-06 〜 2026-11-05）<br>このページは<b>その日の TradingView 画面そのまま</b>です。古い取引も含めた通算は<a href="../">トップページ</a>にあります。</p><p class=note>ChartArt「Bollinger + RSI, Double Strategy」v1.1 の日本語表示版。ロジックは原本と同じで、矢印を「買い／売り」表示にして評価損益を円で出すようにしたもの。アラート2本（1時間足・3分足）が稼働中。前回（19:20）建玉中だった買いの取引は 2026-11-05 19:51 に +0.56 円で決済され、同時刻に新しい売りの取引を建てました。いちばん新しい取引（売り・2026-11-05 19:51 建て）は建玉中のままで、評価損益は含み益・含み損で変わります。</p><h2>戦略レポート（主な統計データと累積損益カーブ）</h2><a href='report.png' target=_blank rel=noopener><img src='report.png' alt='戦略レポート（主な統計データと累積損益カーブ）'></a><p class=cap>画像をタップすると原寸で開きます</p><h2>この日の取引一覧</h2><p>24 件（新しい順）</p><p class=cap>日時は上がエントリー・下が決済。小さい字は価格です。</p><div class=sc><table><thead><tr><th>#</th><th>方向</th><th>日時</th><th>損益<br>(円)</th><th>累積<br>(円)</th></tr></thead><tbody><tr class=op><td class=num>24</td><td><span class="tag s">売</span></td><td>11/05 19:51<br>↓ <b>建玉中</b><div class=px>158.363 → （未決済）</div></td><td class=num><span class="dn">-0.03</span></td><td class=num>+5.68</td></tr><tr><td class=num>23</td><td><span class="tag b">買</span></td><td>11/03 16:48<br>↓ 11/05 19:51<div class=px>157.799 → 158.363</div></td><td class=num><span class="up">+0.56</span></td><td class=num>+5.71</td></tr><tr><td class=num>22</td><td><span class="tag s">売</span></td><td>11/02 09:33<br>↓ 11/03 16:48<div class=px>157.719 → 157.799</div></td><td class=num><span class="dn">-0.08</span></td><td class=num>+5.15</td></tr><tr><td class=num>21</td><td><span class="tag b">買</span></td><td>10/30 06:39<br>↓ 11/02 09:33<div class=px>157.668 → 157.719</div></td><td class=num><span class="up">+0.05</span></td><td class=num>+5.23</td></tr><tr><td class=num>20</td><td><span class="tag s">売</span></td><td>10/29 00:36<br>↓ 10/30 06:39<div class=px>158.199 → 157.668</div></td><td class=num><span class="up">+0.53</span></td><td class=num>+5.18</td></tr><tr><td class=num>19</td><td><span class="tag b">買</span></td><td>10/28 14:54<br>↓ 10/29 00:36<div class=px>157.816 → 158.199</div></td><td class=num><span class="up">+0.38</span></td><td class=num>+4.65</td></tr><tr><td class=num>18</td><td><span class="tag s">売</span></td><td>10/27 11:00<br>↓ 10/28 14:54<div class=px>157.659 → 157.816</div></td><td class=num><span class="dn">-0.16</span></td><td class=num>+4.26</td></tr><tr><td class=num>17</td><td><span class="tag b">買</span></td><td>10/26 11:48<br>↓ 10/27 11:00<div class=px>156.721 → 157.659</div></td><td class=num><span class="up">+0.94</span></td><td class=num>+4.42</td></tr><tr><td class=num>16</td><td><span class="tag s">売</span></td><td>10/26 10:03<br>↓ 10/26 11:48<div class=px>157.057 → 156.721</div></td><td class=num><span class="up">+0.34</span></td><td class=num>+3.48</td></tr><tr><td class=num>15</td><td><span class="tag b">買</span></td><td>10/22 13:45<br>↓ 10/26 10:03<div class=px>157.719 → 157.057</div></td><td class=num><span class="dn">-0.66</span></td><td class=num>+3.15</td></tr><tr><td class=num>14</td><td><span class="tag s">売</span></td><td>10/22 04:18<br>↓ 10/22 13:45<div class=px>158.26 → 157.719</div></td><td class=num><span class="up">+0.54</span></td><td class=num>+3.81</td></tr><tr><td class=num>13</td><td><span class="tag b">買</span></td><td>10/21 21:48<br>↓ 10/22 04:18<div class=px>157.942 → 158.26</div></td><td class=num><span class="up">+0.32</span></td><td class=num>+3.27</td></tr><tr><td class=num>12</td><td><span class="tag s">売</span></td><td>10/21 10:09<br>↓ 10/21 21:48<div class=px>158.307 → 157.942</div></td><td class=num><span class="up">+0.37</span></td><td class=num>+2.95</td></tr><tr><td class=num>11</td><td><span class="tag b">買</span></td><td>10/20 23:48<br>↓ 10/21 10:09<div class=px>157.983 → 158.307</div></td><td class=num><span class="up">+0.32</span></td><td class=num>+2.58</td></tr><tr><td class=num>10</td><td><span class="tag s">売</span></td><td>10/19 19:18<br>↓ 10/20 23:48<div class=px>158.21 → 157.983</div></td><td class=num><span class="up">+0.23</span></td><td class=num>+2.26</td></tr><tr><td class=num>9</td><td><span class="tag b">買</span></td><td>10/16 13:09<br>↓ 10/19 19:18<div class=px>157.935 → 158.21</div></td><td class=num><span class="up">+0.28</span></td><td class=num>+2.03</td></tr><tr><td class=num>8</td><td><span class="tag s">売</span></td><td>10/16 00:42<br>↓ 10/16 13:09<div class=px>158.126 → 157.935</div></td><td class=num><span class="up">+0.19</span></td><td class=num>+1.76</td></tr><tr><td class=num>7</td><td><span class="tag b">買</span></td><td>10/14 12:45<br>↓ 10/16 00:42<div class=px>158.234 → 158.126</div></td><td class=num><span class="dn">-0.11</span></td><td class=num>+1.57</td></tr><tr><td class=num>6</td><td><span class="tag s">売</span></td><td>10/14 10:36<br>↓ 10/14 12:45<div class=px>158.423 → 158.234</div></td><td class=num><span class="up">+0.19</span></td><td class=num>+1.68</td></tr><tr><td class=num>5</td><td><span class="tag b">買</span></td><td>10/12 10:18<br>↓ 10/14 10:36<div class=px>158.128 → 158.423</div></td><td class=num><span class="up">+0.30</span></td><td class=num>+1.49</td></tr><tr><td class=num>4</td><td><span class="tag s">売</span></td><td>10/09 01:09<br>↓ 10/12 10:18<div class=px>158.297 → 158.128</div></td><td class=num><span class="up">+0.17</span></td><td class=num>+1.19</td></tr><tr><td class=num>3</td><td><span class="tag b">買</span></td><td>10/08 10:06<br>↓ 10/09 01:09<div class=px>157.858 → 158.297</div></td><td class=num><span class="up">+0.44</span></td><td class=num>+1.02</td></tr><tr><td class=num>2</td><td><span class="tag s">売</span></td><td>10/06 15:45<br>↓ 10/08 10:06<div class=px>158.16 → 157.858</div></td><td class=num><span class="up">+0.30</span></td><td class=num>+0.58</td></tr><tr><td class=num>1</td><td><span class="tag b">買</span></td><td>10/06 06:57<br>↓ 10/06 15:45<div class=px>157.879 → 158.16</div></td><td class=num><span class="up">+0.28</span></td><td class=num>+0.28</td></tr></tbody></table></div><details open><summary>⚠ 数字を読むときの注意</summary><ul><li><b>取得日時は 2026-11-05 20:46 JST</b>。TradingView の Essential プランはさかのぼれる期間が日ごとにずれるため、<b>後日まったく同じ操作をしても集計期間と数字が変わります</b></li><li><b>TradingView の画面に出る「利益率」は建玉中の評価損益を含みません</b>。いま建玉中が -0.03 円あり、含めると利益率は 6.663 → 6.471 になります</li><li>表の損益はスプレッドや実際の約定ズレを含みません。実口座の成績とは一致しません</li><li>最大ドローダウンは、決済ごとの累積損益に加えて保有中の含み損も谷として数えています。TradingView の表示と計算の土俵が違うことがあります</li><li>この戦略は5分足6年の独立検証では利益率 0.924（ランダムに入った場合より悪い）でした。ここに出ている短期の高い利益率は、期間の取り方で出ることがあります</li><li>3分足は長期の裏取りができません（手持ちの検証データは最短5分足）</li></ul></details></main></body></html>
